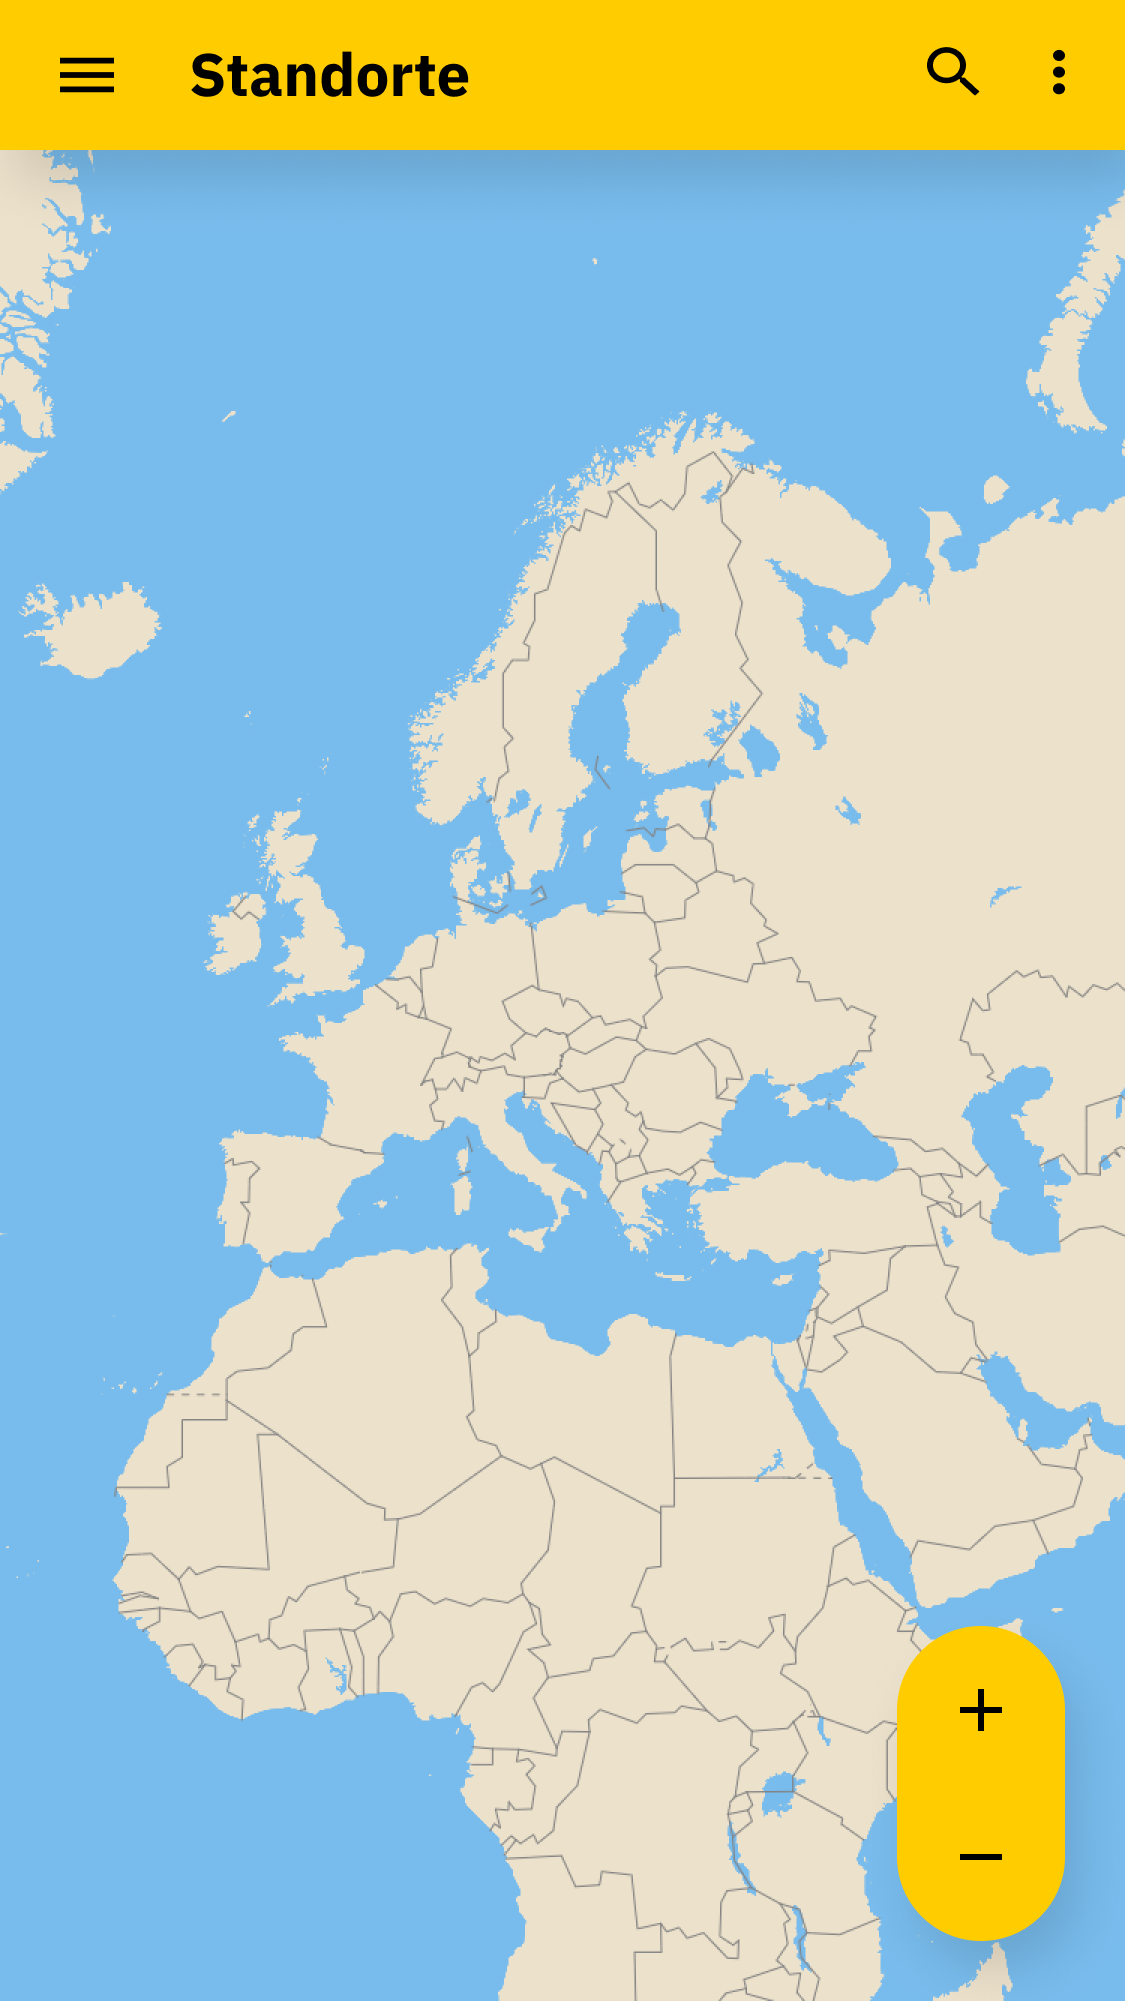
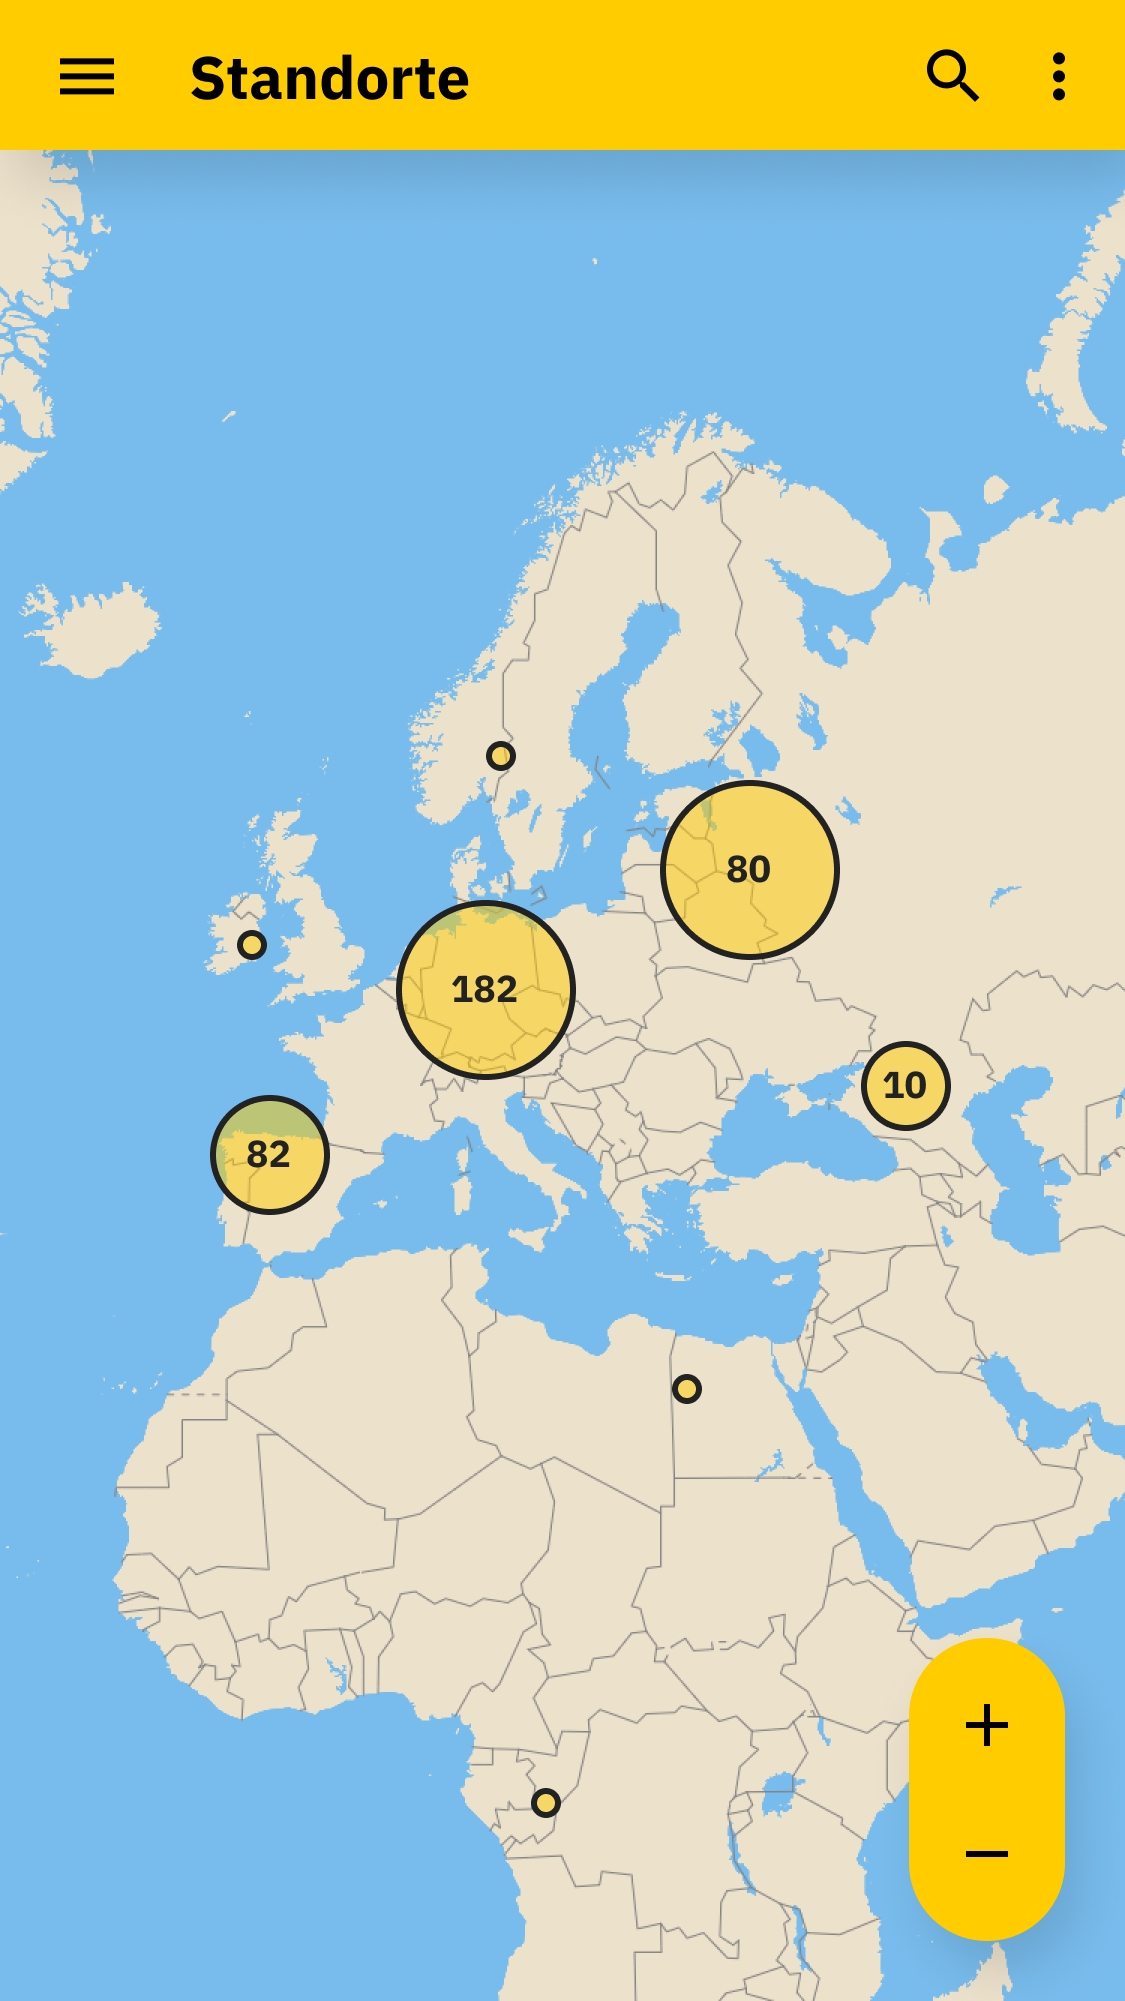
update Karte

diff --git a/index.html b/index.html
@@ -449,12 +449,16 @@ https://twitter.com/cnoss
                 </figcaption>
 
                 <figcaption>
-                    <img class="m-portfolioItem-image" src="/mi-sd-cranachproject/assets/img/smartphone/cda_standorte.png">
+                    <img class="m-portfolioItem-image" src="/mi-sd-cranachproject/assets/img/smartphone/cda_standorte_single.png">
                 </figcaption>
 
                 <figcaption>
                     <p>
-                     ...
+                     Die einzelnen Bilder werden auf der karte durch einen Punkt repräsentiert. Tippt der Nutzer auf einen Punkt, öffnet sich die jeweilige Detailansicht.
+                     Befinden sich mehrere Punkte nah beieinander, werden diese zu einem größeren Punkt zusammengefasst.
+                     Innerhalb des Punktes wird durch eine Zahl gekennzeichnet, wieviele Bilder durch den Punkt repräsentiert werden.
+                     Das Zusammenfassen von Punkten schafft nicht nur Übersichtlichkeit, sondern lässt den Nutzer auch direkt erkennen, an welchen Orten sich wieviele Bilder befinden.
+                     So können Ausflüge oder Resien präzise geplant werden.
                     </p>
                 </figcaption>
 
